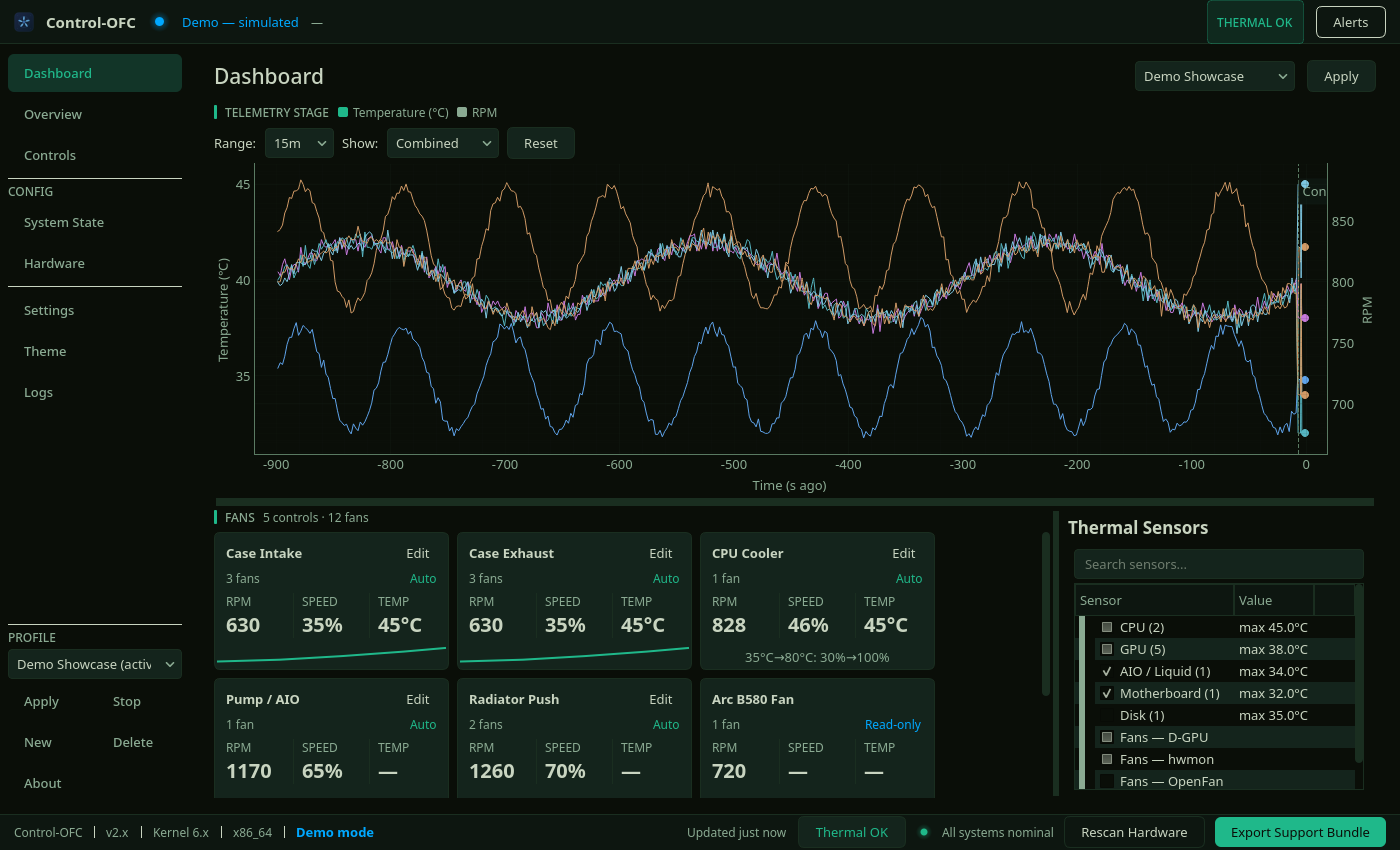
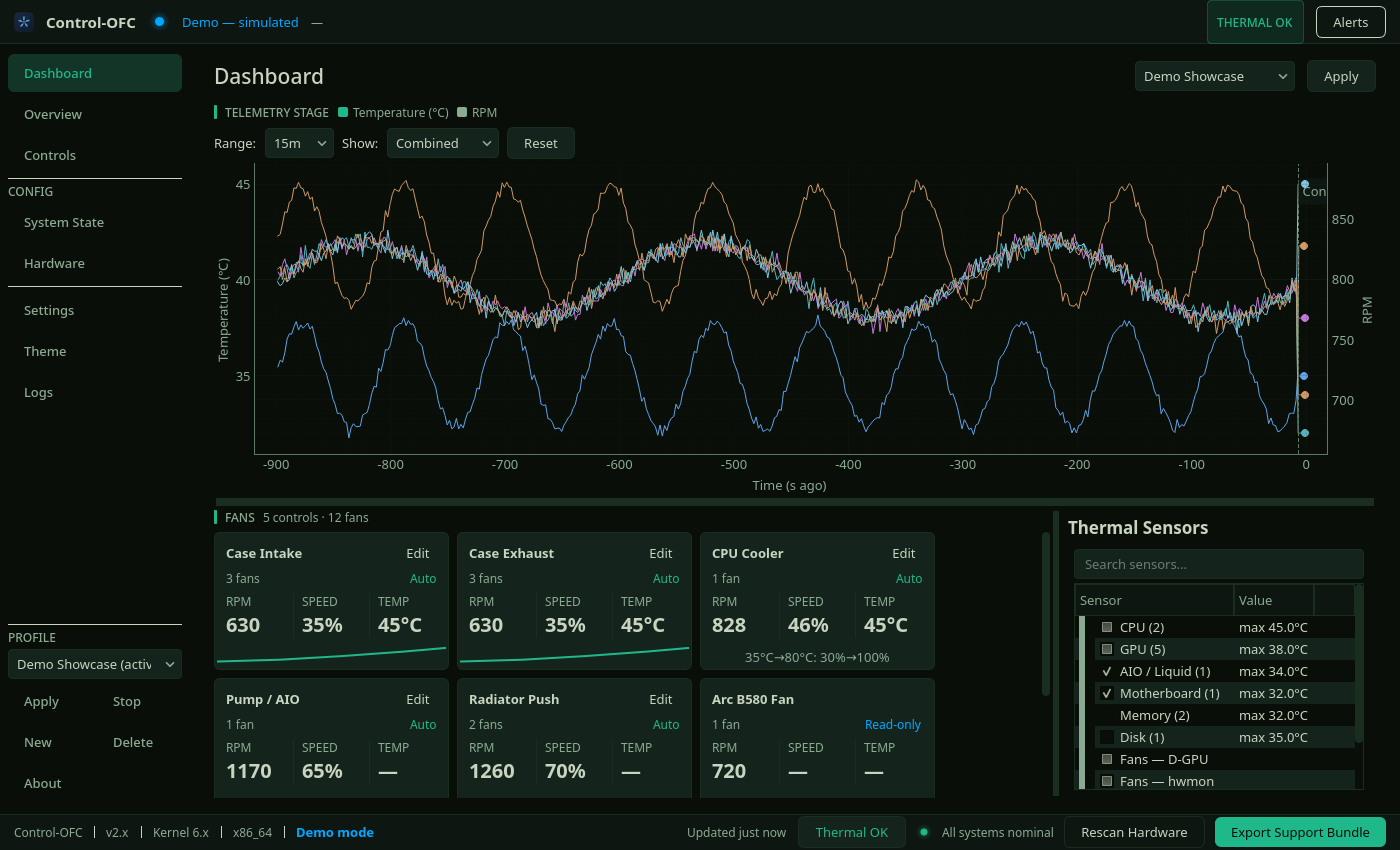
release: control-ofc-gui v4.3.0
The DEC-491/492 memory-sensor batch (two minor commits), released as a
minor. Bumps pyproject.toml, the PKGBUILD pkgver and the README release
line; the daemon floor stays >= 3.0.0 (memory display works with any
daemon; the id re-key follows daemon 4.3.0's new form when it appears).
The manual's Dashboard group list and Overview summary line gain Memory.
Screenshots recaptured: the Dashboard sensor tree and the Overview summary
show the demo DDR5 pair.

diff --git a/manual/diagnostics.md b/manual/diagnostics.md
@@ -35,7 +35,7 @@ The **Overview** page answers *"is the daemon healthy, what hardware was found, 
 
 ### Sensors
 
-An 8-column diagnostic table of every temperature sensor reported by the daemon (`#`, Label, Sensor ID, Source class, Chip, Value, Age, Confidence — double-click a row, press **Enter** on it, or right-click → **Open detail…** for the full detail dialog). A **header summary line** above the table answers "is anything wrong?" at a glance — `Sensors: N total · X CPU · Y board · Z GPU · V liquid · W disk · K stale · J low-confidence · U unavailable · M hidden`.
+An 8-column diagnostic table of every temperature sensor reported by the daemon (`#`, Label, Sensor ID, Source class, Chip, Value, Age, Confidence — double-click a row, press **Enter** on it, or right-click → **Open detail…** for the full detail dialog). A **header summary line** above the table answers "is anything wrong?" at a glance — `Sensors: N total · X CPU · Y board · R memory · Z GPU · V liquid · W disk · K stale · J low-confidence · U unavailable · M hidden`.
 
 | Column | Meaning |
 |--------|---------|

diff --git a/manual/dashboard.md b/manual/dashboard.md
@@ -150,7 +150,7 @@ the readings from before it sit where they belong — or have aged out of the wi
 The right-hand **Sensors panel** is always present — drag the splitter handle between
 it and the fan cards to give the chart more width when you need it. It is a grouped,
 searchable tree of every **sensor and fan**, grouped
-into CPU, GPU, **AIO / Liquid** (liquid-cooler coolant temperatures), Motherboard, Disk,
+into CPU, GPU, **AIO / Liquid** (liquid-cooler coolant temperatures), Motherboard, Memory (memory-module temperatures), Disk,
 and Fans (by source: D-GPU, hwmon, OpenFan). Liquid-cooler pump and radiator fans are
 tagged **(AIO)**. Type in the "Search sensors…" box to filter; click a row's checkbox to
 show/hide its line on the chart; toggle a whole group to declutter. A reading the daemon

diff --git a/README.md b/README.md
@@ -1,6 +1,6 @@
 # Control-OFC GUI
 
-**Latest release:** v4.2.0 — 2026-10-08. Pairs with `control-ofc-daemon` ≥ v3.0.0. Individual features gate on newer daemons and say so in the app when one is missing; [CHANGELOG.md](CHANGELOG.md) records which version introduced each.
+**Latest release:** v4.3.0 — 2026-10-09. Pairs with `control-ofc-daemon` ≥ v3.0.0. Individual features gate on newer daemons and say so in the app when one is missing; [CHANGELOG.md](CHANGELOG.md) records which version introduced each.
 
 Desktop fan control interface for Linux. Communicates with the [`control-ofc-daemon`](https://github.com/Plan-B-Development/control-ofc-daemon) service to monitor temperatures, manage fan speeds, and apply custom fan curves.
 

diff --git a/CHANGELOG.md b/CHANGELOG.md
@@ -2,6 +2,12 @@
 
 ## [Unreleased]
 
+## [4.3.0] — 2026-10-09
+
+**Pairs with `control-ofc-daemon` >= v3.0.0**, which the package still requires; control-ofc-daemon 4.3.0 is
+the matching release, and memory-module settings follow a renumbered SMBus only with it. Nothing is removed,
+and profiles, settings and themes load as before.
+
 ### Added
 
 - **Memory temperatures are shown as memory** (DEC-491). DDR5 modules (`spd5118`, kernel 6.11 or later),
